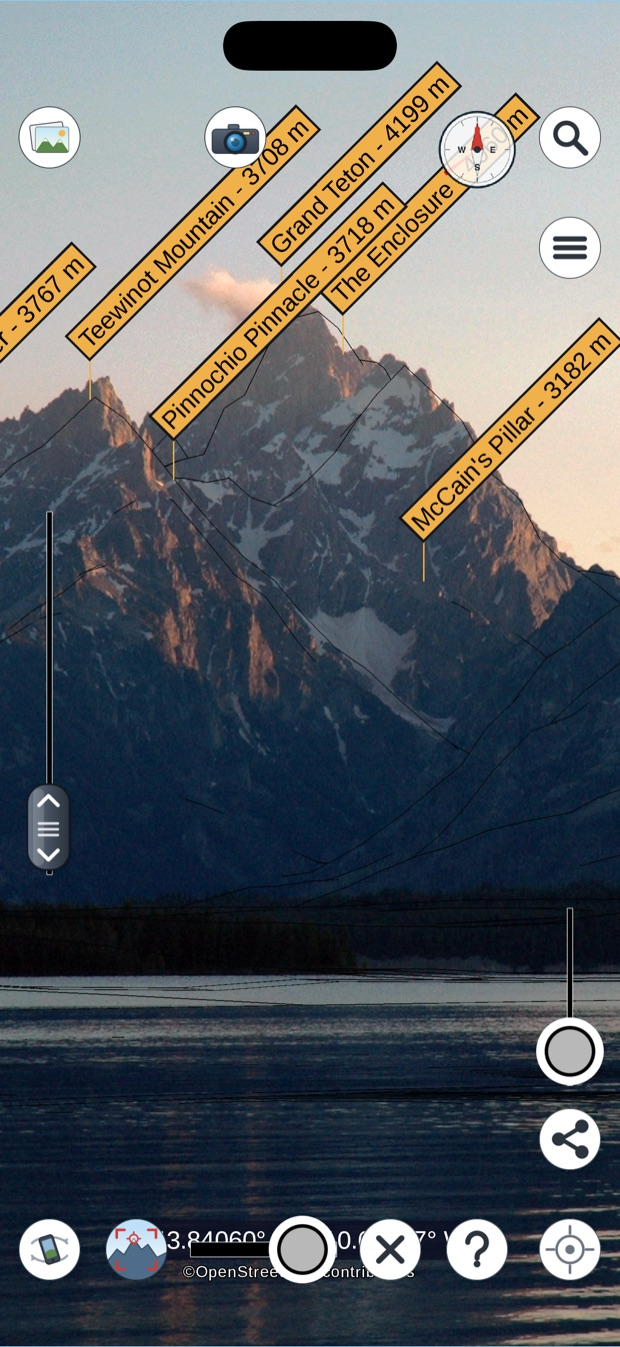
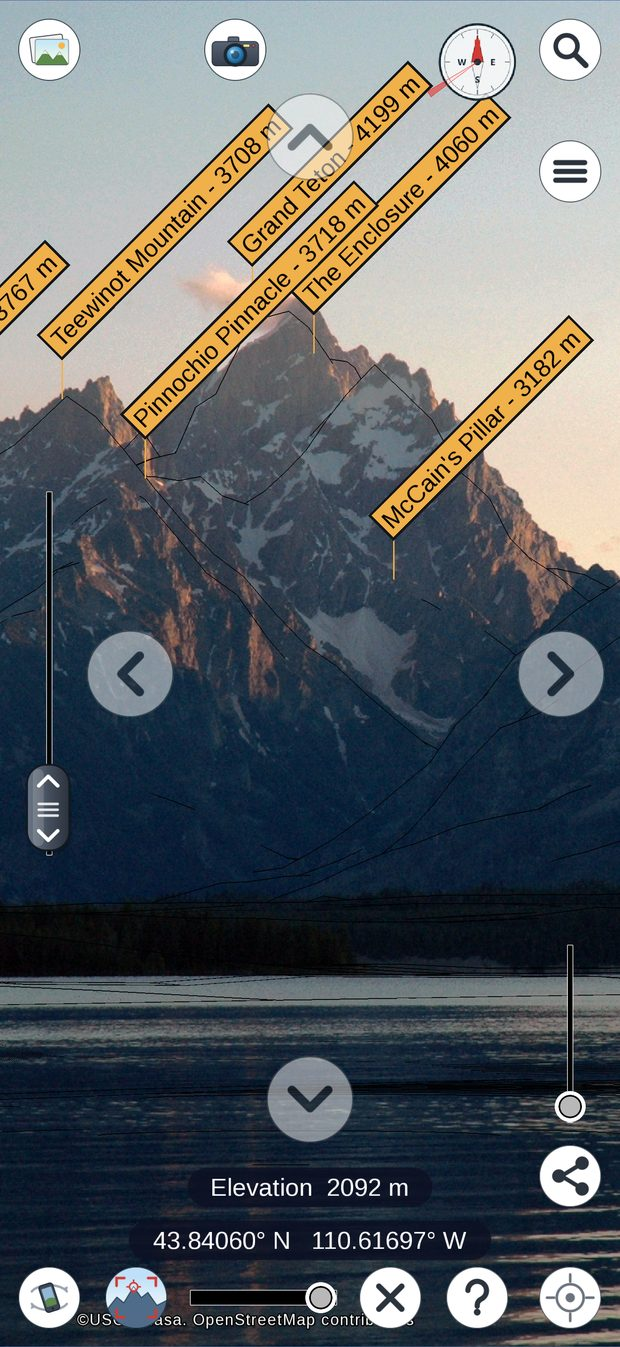
Tutorial: the photo's fine-alignment buttons, moving and turning-stretching
Two new slides on the Grand Teton photo. "Fine-tune the position" rings the four
arrows at the edges, which move the terrain a pixel per tap; "Turn and stretch"
rings the same buttons with a summit pinned, where they turn the terrain about the
pin and stretch or shrink it. Captions in all 22 languages. 32 slides.

The three photo pictures are shot again with the buttons on them, by the headless
renderer at the Simulator's 1320x2868 and on Landsat imagery, from the same crop of
the photo as before (x 797-1712, full height; 35 mm focal 171 in the crop's EXIF,
since the app reads it across the diagonal).

A slide's "marker" may now be a list: a ring on each button of a set, without the
spotlight, which would dim the other buttons. tutorial_slides.py takes a tuple of
widgets for that, and a view left out of the captures keeps its picture and rings,
so a few views can be taken again without the rest.

Claude-Session: https://claude.ai/code/session_018EoCeqjtKdapkfrYRrfFrS

diff --git a/core/src/main/java/com/peaknav/viewer/widgets/TutorialOverlay.java b/core/src/main/java/com/peaknav/viewer/widgets/TutorialOverlay.java
@@ -57,16 +57,17 @@ public class TutorialOverlay implements Disposable {
     /** Pictures kept decoded: the one on screen and its neighbours. */
     private static final int TEXTURES_KEPT = 3;
 
-    /** One slide: the picture, the caption's key, and where the ring goes (null for none). */
+    /** One slide: the picture, the caption's key, and where the rings go (null for none). */
     private static final class Slide {
         final String image;
         final String key;
-        final float[] marker;   // cx, cy, rw, rh as fractions of the picture, or null
+        /** Per ring cx, cy, rw, rh as fractions of the picture; usually one, several for a set of buttons. */
+        final float[][] markers;
 
-        Slide(String image, String key, float[] marker) {
+        Slide(String image, String key, float[][] markers) {
             this.image = image;
             this.key = key;
-            this.marker = marker;
+            this.markers = markers;
         }
     }
 
@@ -172,15 +173,33 @@ public class TutorialOverlay implements Disposable {
                 return;
             }
             for (JsonValue entry = new JsonReader().parse(file).child; entry != null; entry = entry.next) {
-                JsonValue marker = entry.get("marker");
                 slides.add(new Slide(entry.getString("image"), entry.getString("key"),
-                        marker == null || marker.isNull() ? null : new float[]{
-                                marker.getFloat("cx"), marker.getFloat("cy"),
-                                marker.getFloat("rw"), marker.getFloat("rh")}));
+                        markers(entry.get("marker"))));
             }
         } catch (RuntimeException broken) {
             Gdx.app.error("PeakNav", "tutorial slides: " + broken);
         }
+    }
+
+    /** A slide's "marker": null, one ring, or an array of them for the buttons of a set. */
+    private static float[][] markers(JsonValue marker) {
+        if (marker == null || marker.isNull()) {
+            return null;
+        }
+        List<float[]> rings = new ArrayList<>();
+        if (marker.isArray()) {
+            for (JsonValue one = marker.child; one != null; one = one.next) {
+                rings.add(ring(one));
+            }
+        } else {
+            rings.add(ring(marker));
+        }
+        return rings.isEmpty() ? null : rings.toArray(new float[0][]);
+    }
+
+    private static float[] ring(JsonValue marker) {
+        return new float[]{marker.getFloat("cx"), marker.getFloat("cy"),
+                marker.getFloat("rw"), marker.getFloat("rh")};
     }
 
     public Table getRoot() {
@@ -376,7 +395,7 @@ public class TutorialOverlay implements Disposable {
             return;
         }
         Slide slide = slides.get(index);
-        slideView.set(picture(slide.image), slide.marker);
+        slideView.set(picture(slide.image), slide.markers);
         title.setText(s(slide.key));
         detail.setText(s(slide.key + "_detail"));
         counter.setText((index + 1) + " / " + slides.size());
@@ -559,46 +578,60 @@ public class TutorialOverlay implements Disposable {
     private final class SlideView extends com.badlogic.gdx.scenes.scene2d.ui.WidgetGroup {
 
         private final Image picture = new Image();
-        private final Image ring = new Image();
-        /** Rings that swell and fade out of it one after the other, so the eye is caught by movement. */
-        private final Image[] ripples = {new Image(), new Image()};
-        /** The rest of the picture dimmed, so the ringed spot is the bright one. */
+        /** One per ring, made as the slides need them. */
+        private final List<Image> rings = new ArrayList<>();
+        /** Rings that swell and fade out of each ring one after the other, so the eye is caught by movement. */
+        private final List<Image[]> ripples = new ArrayList<>();
+        /**
+         * The rest of the picture dimmed, so the ringed spot is the bright one. Only around a
+         * single ring: the buttons of a set are far apart, and a spotlight on one would dim the others.
+         */
         private final Spotlight spotlight = new Spotlight();
-        private float[] marker;
+        private float[][] markers;
 
         SlideView() {
             picture.setScaling(Scaling.fit);
             picture.setTouchable(Touchable.disabled);
             addActor(picture);
             addActor(spotlight);
-            for (Image ripple : ripples) {
-                ripple.setDrawable(new TextureRegionDrawable(ring()));
-                ripple.setVisible(false);
-                ripple.setTouchable(Touchable.disabled);
-                addActor(ripple);
-            }
-            ring.setDrawable(new TextureRegionDrawable(ring()));
-            ring.setVisible(false);
-            ring.setTouchable(Touchable.disabled);
-            addActor(ring);
         }
 
-        void set(TextureRegion region, float[] marker) {
-            this.marker = marker;
-            picture.setDrawable(region == null ? null : new TextureRegionDrawable(region));
-            ring.setVisible(marker != null);
-            spotlight.setVisible(marker != null);
-            ring.clearActions();
-            spotlight.clearActions();
-            for (Image ripple : ripples) {
-                ripple.setVisible(marker != null);
-                ripple.clearActions();
-                ripple.getColor().a = 0f;
+        private Image newRing() {
+            Image image = new Image(new TextureRegionDrawable(ring()));
+            image.setVisible(false);
+            image.setTouchable(Touchable.disabled);
+            addActor(image);
+            return image;
+        }
+
+        void set(TextureRegion region, float[][] markers) {
+            this.markers = markers;
+            int count = markers == null ? 0 : markers.length;
+            while (rings.size() < count) {
+                ripples.add(new Image[]{newRing(), newRing()});
+                rings.add(newRing());   // over its ripples
             }
-            if (marker != null) {
+            picture.setDrawable(region == null ? null : new TextureRegionDrawable(region));
+            spotlight.setVisible(count == 1);
+            spotlight.clearActions();
+            if (count == 1) {
                 // The picture dims around the spot...
                 spotlight.getColor().a = 0f;
                 spotlight.addAction(Actions.alpha(1f, 0.5f));
+            }
+            for (int r = 0; r < rings.size(); r++) {
+                Image ring = rings.get(r);
+                boolean shown = r < count;
+                ring.setVisible(shown);
+                ring.clearActions();
+                for (Image ripple : ripples.get(r)) {
+                    ripple.setVisible(shown);
+                    ripple.clearActions();
+                    ripple.getColor().a = 0f;
+                }
+                if (!shown) {
+                    continue;
+                }
                 // ...the ring swoops in onto it from large, then breathes and brightens...
                 ring.getColor().a = 0f;
                 ring.setScale(3f);
@@ -610,8 +643,9 @@ public class TutorialOverlay implements Disposable {
                                         Actions.scaleTo(1.08f, 1.08f, 0.45f, Interpolation.sine)),
                                 Actions.sequence(Actions.alpha(0.6f, 0.45f), Actions.alpha(1f, 0.45f))))));
                 // ...and rings swell out of it and fade, one after the other.
-                for (int i = 0; i < ripples.length; i++) {
-                    ripples[i].addAction(Actions.sequence(
+                Image[] own = ripples.get(r);
+                for (int i = 0; i < own.length; i++) {
+                    own[i].addAction(Actions.sequence(
                             Actions.delay(0.55f + 0.7f * i),
                             Actions.forever(Actions.sequence(
                                     Actions.parallel(Actions.scaleTo(1f, 1f), Actions.alpha(0.9f)),
@@ -625,7 +659,7 @@ public class TutorialOverlay implements Disposable {
         @Override
         public void layout() {
             picture.setBounds(0, 0, getWidth(), getHeight());
-            if (marker == null || picture.getDrawable() == null) {
+            if (markers == null || picture.getDrawable() == null) {
                 return;
             }
             // Where the picture actually lands inside this box, once fitted.
@@ -636,20 +670,26 @@ public class TutorialOverlay implements Disposable {
             float drawnHeight = pictureHeight * scale;
             float left = (getWidth() - drawnWidth) / 2;
             float bottom = (getHeight() - drawnHeight) / 2;
-            // The marker's y runs down the picture, scene2d's up.
-            float centreX = left + marker[0] * drawnWidth;
-            float centreY = bottom + (1 - marker[1]) * drawnHeight;
-            float width = 2 * marker[2] * drawnWidth;
-            float height = 2 * marker[3] * drawnHeight;
-            ring.setBounds(centreX - width / 2, centreY - height / 2, width, height);
-            ring.setOrigin(Align.center);
-            for (Image ripple : ripples) {
-                ripple.setBounds(ring.getX(), ring.getY(), width, height);
-                ripple.setOrigin(Align.center);
+            for (int r = 0; r < markers.length; r++) {
+                float[] marker = markers[r];
+                // The marker's y runs down the picture, scene2d's up.
+                float centreX = left + marker[0] * drawnWidth;
+                float centreY = bottom + (1 - marker[1]) * drawnHeight;
+                float width = 2 * marker[2] * drawnWidth;
+                float height = 2 * marker[3] * drawnHeight;
+                Image ring = rings.get(r);
+                ring.setBounds(centreX - width / 2, centreY - height / 2, width, height);
+                ring.setOrigin(Align.center);
+                for (Image ripple : ripples.get(r)) {
+                    ripple.setBounds(ring.getX(), ring.getY(), width, height);
+                    ripple.setOrigin(Align.center);
+                }
+                if (r == 0) {
+                    spotlight.setBounds(left, bottom, drawnWidth, drawnHeight);
+                    spotlight.hole(centreX - left, centreY - bottom,
+                            SPOTLIGHT_SCALE * width, SPOTLIGHT_SCALE * height);
+                }
             }
-            spotlight.setBounds(left, bottom, drawnWidth, drawnHeight);
-            spotlight.hole(centreX - left, centreY - bottom,
-                    SPOTLIGHT_SCALE * width, SPOTLIGHT_SCALE * height);
         }
 
         @Override

diff --git a/tools/tutorial_slides.py b/tools/tutorial_slides.py
@@ -9,8 +9,9 @@ on its widget wherever that widget has moved to and the tutorial cannot drift fr
 
     python3 tools/tutorial_slides.py <captures dir> [--width 620]
 
-A capture directory holds, per view below, <view>.png and <view>.widgets.json. Any missing view
-is skipped with a warning, and the slides that use it are left out. The captions are the app's
+A capture directory holds, per view below, <view>.png and <view>.widgets.json. A view missing
+from it keeps the picture already in assets/info/ and the rings its slides have now, so a few
+views can be taken again without the rest; a view with neither is left out, with its slides. The captions are the app's
 own translations, keyed by TutorialStrings.KEYS - this script only says which key goes with
 which picture and which widget it points at.
 """
@@ -25,8 +26,10 @@ HERE = os.path.dirname(os.path.abspath(__file__))
 ROOT = os.path.dirname(HERE)
 INFO = os.path.join(ROOT, "assets", "info")
 
-# caption key, the view it is shown on, the named widget the ring points at (None for none).
+# caption key, the view it is shown on, the named widget the ring points at (None for none, a
+# tuple for a ring on each of a set of buttons).
 # The order is the order of the slides, and must match TutorialStrings.KEYS.
+NUDGE = ("photo_nudge_up", "photo_nudge_down", "photo_nudge_left", "photo_nudge_right")
 SLIDES = [
     ("Tutorial_welcome",        "base",          None),
     ("Tutorial_gyroscope",      "base",          "gyro"),
@@ -60,7 +63,11 @@ SLIDES = [
     ("Tutorial_photo_match",    "photo",         "photo_match"),
     ("Tutorial_photo_outlines", "photo",         "photo_outline_bar"),
     ("Tutorial_photo_terrain",  "photo_terrain", "terrain_bar"),
+    # the four buttons at the edges move the terrain a pixel a tap; with a point pinned they
+    # turn and stretch it about the pin instead
+    ("Tutorial_photo_nudge",    "photo",         NUDGE),
     ("Tutorial_photo_pin",      "photo_pin",     "unpin"),
+    ("Tutorial_photo_pin_adjust", "photo_pin",   NUDGE),
     ("Tutorial_photo_close",    "photo",         "photo_close"),
     ("Tutorial_help",           "base",          "help"),
 ]
@@ -101,6 +108,14 @@ def marker_for(bounds, widget, name):
             "rw": round(rw / iw, 4), "rh": round(rh / ih, 4)}
 
 
+def markers_for(bounds, widget, name):
+    """One ring, or for a tuple of widgets a list of them - one per widget found."""
+    if not isinstance(widget, tuple):
+        return marker_for(bounds, widget, name)
+    rings = [m for m in (marker_for(bounds, w, name) for w in widget) if m is not None]
+    return rings or None
+
+
 def main():
     ap = argparse.ArgumentParser(description=__doc__, formatter_class=argparse.RawDescriptionHelpFormatter)
     ap.add_argument("captures", help="directory with <view>.png and <view>.widgets.json")
@@ -108,13 +123,24 @@ def main():
     args = ap.parse_args()
 
     views = sorted({view for _, view, _ in SLIDES})
+    slides_file = os.path.join(INFO, "tutorial_slides.json")
+    # The rings as they are now, for the views not taken again.
+    old = {}
+    if os.path.exists(slides_file):
+        old = {s["key"]: s for s in json.load(open(slides_file, encoding="utf-8"))}
     have = {}
+    kept = set()
     for view in views:
         png = os.path.join(args.captures, view + ".png")
-        if not os.path.exists(png):
-            print("warning: no picture for view " + view, file=sys.stderr)
-            continue
         name = "tutorial_%s.jpg" % view
+        if not os.path.exists(png):
+            if os.path.exists(os.path.join(INFO, name)):
+                have[view] = (name, None)
+                kept.add(view)
+                print("kept", name)
+            else:
+                print("warning: no picture for view " + view, file=sys.stderr)
+            continue
         scale_to_jpeg(png, os.path.join(INFO, name), args.width)
         bounds_file = os.path.join(args.captures, view + ".widgets.json")
         bounds = json.load(open(bounds_file)) if os.path.exists(bounds_file) else {}
@@ -127,14 +153,19 @@ def main():
             continue
         name, bounds = have[view]
         marker = None
-        if widget is not None:
+        if view in kept:
+            if key in old:
+                marker = old[key]["marker"]
+            elif widget is not None:
+                print("warning: %s is new, and %s was not taken again - slide without a ring"
+                      % (key, view), file=sys.stderr)
+        elif widget is not None:
             if not bounds:
                 print("warning: no widget places for " + view, file=sys.stderr)
             else:
-                marker = marker_for(bounds, widget, name)
+                marker = markers_for(bounds, widget, name)
         slides.append({"image": name, "key": key, "marker": marker})
 
-    slides_file = os.path.join(INFO, "tutorial_slides.json")
     with open(slides_file, "w", encoding="utf-8", newline="\n") as fh:
         json.dump(slides, fh, indent=2, ensure_ascii=False)
         fh.write("\n")

diff --git a/core/src/main/java/com/peaknav/viewer/TutorialStrings.java b/core/src/main/java/com/peaknav/viewer/TutorialStrings.java
@@ -42,7 +42,9 @@ public final class TutorialStrings {
             "Tutorial_photo_match",
             "Tutorial_photo_outlines",
             "Tutorial_photo_terrain",
+            "Tutorial_photo_nudge",
             "Tutorial_photo_pin",
+            "Tutorial_photo_pin_adjust",
             "Tutorial_photo_close",
             "Tutorial_help",
     };
